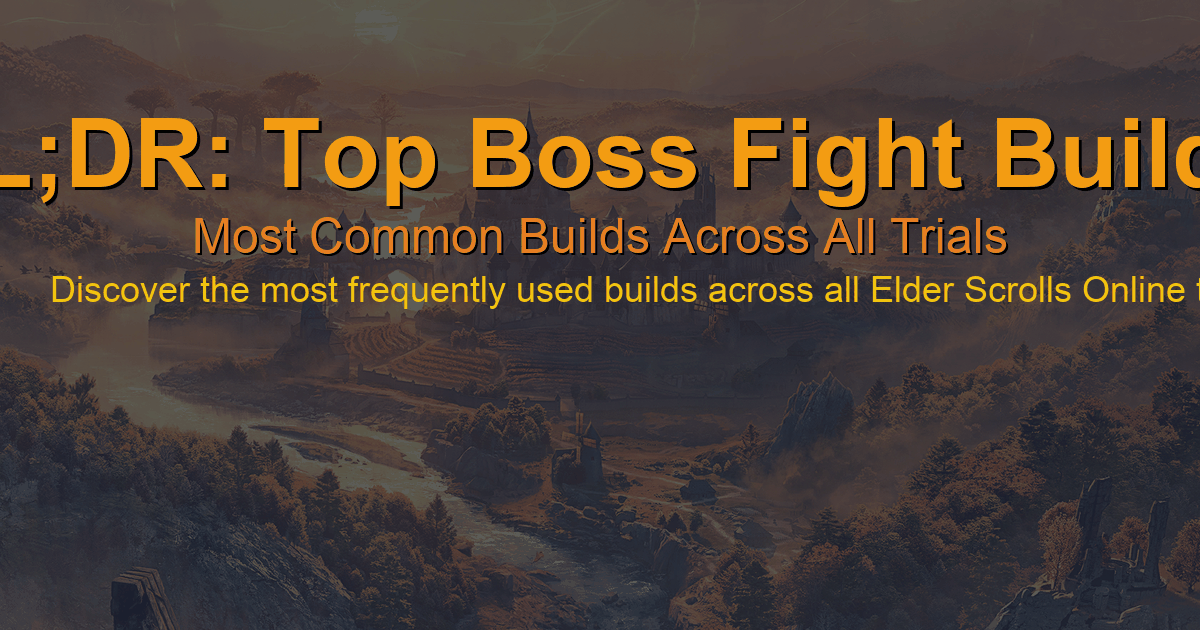
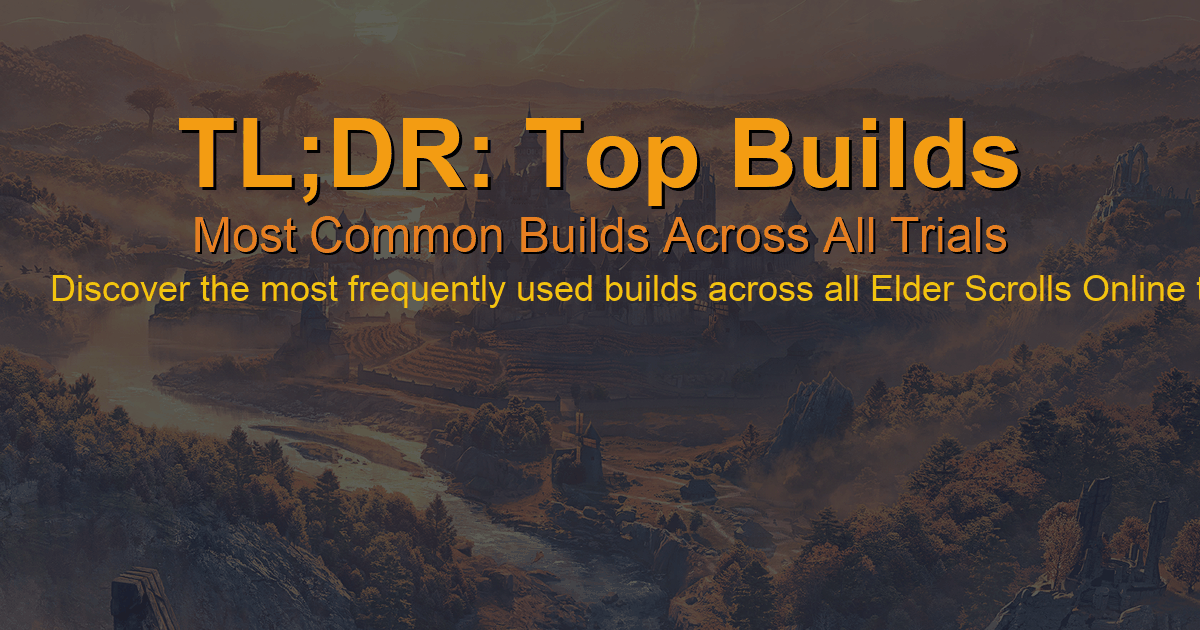
Update TL;DR feature with enhanced home page card
- Change title from 'Top Boss Fight Builds' to 'Top Builds'
- Remove download button from TL;DR summary page
- Add last updated timestamp to TL;DR card
- Display top builds for each role (DPS, Healer, Tank) on home page card
- Show skill lines and signature sets for each role's top build
- Use role-specific icons (⚔ DPS, ✚ Healer, 🛡 Tank)
- Update all references and social previews

Resolves #8

diff --git a/templates/home.html b/templates/home.html
@@ -31,7 +31,7 @@
         <!-- TL;DR Card (FIRST POSITION) -->
         <a href="tldr-top-builds.html" 
            style="text-decoration: none;"
-           aria-label="View TL;DR: Top Boss Fight Builds">
+           aria-label="View TL;DR: Top Builds">
             <div style="background: linear-gradient(135deg, rgba(56, 239, 125, 0.1) 0%, rgba(17, 153, 142, 0.1) 100%), url('static/trial-backgrounds/top-builds.png'); 
                         background-size: cover;
                         background-position: center;
@@ -56,11 +56,41 @@
                 <div style="position: relative; z-index: 1; height: 100%; display: flex; flex-direction: column; justify-content: space-between;">
                     <!-- Header section -->
                     <div>
-                        <h3 style="color: #38ef7d; margin-top: 0; margin-bottom: 5px; text-shadow: 2px 2px 4px rgba(0, 0, 0, 0.8);">TL;DR: Top Boss Fight Builds</h3>
-                        <div style="font-size: 0.9em; color: #a8edea; margin-top: 10px; text-shadow: 1px 1px 3px rgba(0, 0, 0, 0.8);">
-                            Most common builds across all trials
+                        <h3 style="color: #38ef7d; margin-top: 0; margin-bottom: 5px; text-shadow: 2px 2px 4px rgba(0, 0, 0, 0.8);">TL;DR: Top Builds</h3>
+                        {% if generated_date %}
+                        <div style="font-size: 0.7em; color: rgba(168, 237, 234, 0.7); margin-bottom: 10px; text-shadow: 1px 1px 2px rgba(0, 0, 0, 0.8);">
+                            <span class="trial-timestamp" data-utc="{{ generated_date }}">{{ generated_date }}</span>
+                        </div>
+                        {% endif %}
+                    </div>
+                    
+                    <!-- Top builds by role -->
+                    {% if aggregated_builds %}
+                    <div style="margin-top: 15px; padding-top: 15px; border-top: 1px solid rgba(255, 255, 255, 0.1); flex-grow: 1; display: flex; flex-direction: column; justify-content: space-between;">
+                        <div>
+                            {% for role, builds in aggregated_builds.items() %}
+                                {% if builds %}
+                                    {% set top_build = builds[0] %}
+                                    <div style="margin-bottom: 8px; font-size: 0.85em;">
+                                        {% if role == 'dps' %}
+                                            <span style="color: #ff6b6b; font-size: 1.2em;">⚔</span>
+                                        {% elif role == 'healer' %}
+                                            <span style="color: #4ecdc4; font-size: 1.2em;">✚</span>
+                                        {% elif role == 'tank' %}
+                                            <span style="color: #45b7d1; font-size: 1.2em;">🛡</span>
+                                        {% endif %}
+                                        <span style="color: #fff; font-weight: 600; text-shadow: 1px 1px 3px rgba(0, 0, 0, 0.8);">{{ top_build.get_display_name(abbreviated=True) }}</span>
+                                        <div style="font-size: 0.8em; color: #a8edea; margin-top: 2px; text-shadow: 1px 1px 3px rgba(0, 0, 0, 0.8);">
+                                            {% for set_name in top_build.get_sorted_sets() %}
+                                                {{ set_name }}{% if not loop.last %}, {% endif %}
+                                            {% endfor %}
+                                        </div>
+                                    </div>
+                                {% endif %}
+                            {% endfor %}
                         </div>
                     </div>
+                    {% endif %}
                 </div>
             </div>
         </a>

diff --git a/templates/trial.html b/templates/trial.html
@@ -74,6 +74,7 @@
                     Common builds from top-performing players across all boss encounters
                 </p>
             </div>
+            {% if not hide_download_button %}
             <div>
                 <a href="{{ trial_name.lower().replace("'", "").replace(' ', '-') }}-data.csv" 
                    download 
@@ -99,6 +100,7 @@
                     Download CSV
                 </a>
             </div>
+            {% endif %}
         </div>
     </div>
 </div>

diff --git a/src/eso_build_o_rama/page_generator.py b/src/eso_build_o_rama/page_generator.py
@@ -121,7 +121,8 @@ class PageGenerator:
         self,
         builds_by_trial: Dict[str, Dict[str, Dict[str, Any]]],
         trials_metadata: Optional[Dict[str, Dict[str, Any]]] = None,
-        app_version: str = "1.0.0"
+        app_version: str = "1.0.0",
+        aggregated_builds: Optional[Dict[str, List[CommonBuild]]] = None
     ) -> str:
         """
         Generate the home page listing all trials.
@@ -130,6 +131,7 @@ class PageGenerator:
             builds_by_trial: Dictionary of {trial_name: {boss_name: {'builds': [builds], 'total_reports': int}}}
             trials_metadata: Optional metadata about trials including cache stats
             app_version: Application version for display
+            aggregated_builds: Optional aggregated builds data for TL;DR card
             
         Returns:
             Path to generated HTML file
@@ -192,7 +194,8 @@ class PageGenerator:
             'generated_date': datetime.utcnow().strftime('%Y-%m-%dT%H:%M:%SZ'),
             'is_develop': self.is_develop,
             'social_image_url': self._get_social_image_url('home', None, app_version),
-            'app_version': app_version
+            'app_version': app_version,
+            'aggregated_builds': aggregated_builds
         }
         html = template.render(**context)
         
@@ -319,12 +322,13 @@ class PageGenerator:
         
         # Render template
         context = {
-            'trial_name': "TL;DR: Top Boss Fight Builds",
+            'trial_name': "TL;DR: Top Builds",
             'bosses': bosses,
             'generated_date': datetime.utcnow().strftime('%Y-%m-%dT%H:%M:%SZ'),
             'is_develop': self.is_develop,
-            'social_image_url': self._get_social_image_url('trial', "TL;DR: Top Boss Fight Builds", app_version),
-            'app_version': app_version
+            'social_image_url': self._get_social_image_url('trial', "TL;DR: Top Builds", app_version),
+            'app_version': app_version,
+            'hide_download_button': True  # Hide download button for TL;DR page
         }
         html = template.render(**context)
         
@@ -386,7 +390,8 @@ class PageGenerator:
         all_builds: List[CommonBuild],
         update_version: str,
         trials_metadata: Optional[Dict[str, Dict[str, Any]]] = None,
-        app_version: str = "1.0.0"
+        app_version: str = "1.0.0",
+        aggregated_builds: Optional[Dict[str, List[CommonBuild]]] = None
     ) -> Dict[str, str]:
         """
         Generate all build pages and index.
@@ -396,6 +401,7 @@ class PageGenerator:
             update_version: Game update version
             trials_metadata: Optional metadata about trials including last updated times
             app_version: Application version for display
+            aggregated_builds: Optional aggregated builds data for TL;DR card
             
         Returns:
             Dictionary mapping build slugs to file paths
@@ -408,7 +414,7 @@ class PageGenerator:
         builds_by_trial = self._group_builds_by_trial(all_builds)
         
         # Generate home page (index.html) with trial links
-        home_path = self.generate_home_page(builds_by_trial, trials_metadata, app_version)
+        home_path = self.generate_home_page(builds_by_trial, trials_metadata, app_version, aggregated_builds)
         generated_files['home'] = home_path
         
         # Generate about page
@@ -853,7 +859,7 @@ Disallow: /cache/
             "Sanity's Edge": "sanitysedge",
             "Lucent Citadel": "lucentcitadel",
             "Ossein Cage": "ossein_cage",
-            "TL;DR: Top Boss Fight Builds": "top-builds"
+            "TL;DR: Top Builds": "top-builds"
         }
         
         image_name = trial_image_map.get(trial_name, "")
@@ -893,7 +899,7 @@ Disallow: /cache/
             "Sanity's Edge": "sanitysedge",
             "Lucent Citadel": "lucentcitadel",
             "Ossein Cage": "ossein_cage",
-            "TL;DR: Top Boss Fight Builds": "top-builds"
+            "TL;DR: Top Builds": "top-builds"
         }
         
         image_name = trial_image_map.get(trial_name, "")

diff --git a/src/eso_build_o_rama/build_analyzer.py b/src/eso_build_o_rama/build_analyzer.py
@@ -338,7 +338,7 @@ class BuildAnalyzer:
                         report_count=total_reports,
                         best_player=best_player,
                         all_players=[],  # Not needed for aggregated builds
-                        trial_name="TL;DR: Top Boss Fight Builds",
+                        trial_name="TL;DR: Top Builds",
                         boss_name="All Encounters",
                         fight_id=0,
                         update_version=builds[0].update_version,

diff --git a/src/eso_build_o_rama/social_preview_generator.py b/src/eso_build_o_rama/social_preview_generator.py
@@ -428,7 +428,7 @@ class SocialPreviewGenerator:
             description_font = ImageFont.truetype("arial.ttf", 36)
         
         # Define text content
-        title = "TL;DR: Top Boss Fight Builds"
+        title = "TL;DR: Top Builds"
         subtitle = "Most Common Builds Across All Trials"
         description = "Discover the most frequently used builds across all Elder Scrolls Online trials, aggregated from top-performing players."
         

diff --git a/src/eso_build_o_rama/main.py b/src/eso_build_o_rama/main.py
@@ -220,7 +220,8 @@ class ESOBuildORM:
                 all_saved_builds,
                 update_version,
                 trials_metadata,
-                self.get_version()
+                self.get_version(),
+                aggregated_builds
             )
             
             # Add TL;DR pages to generated files
